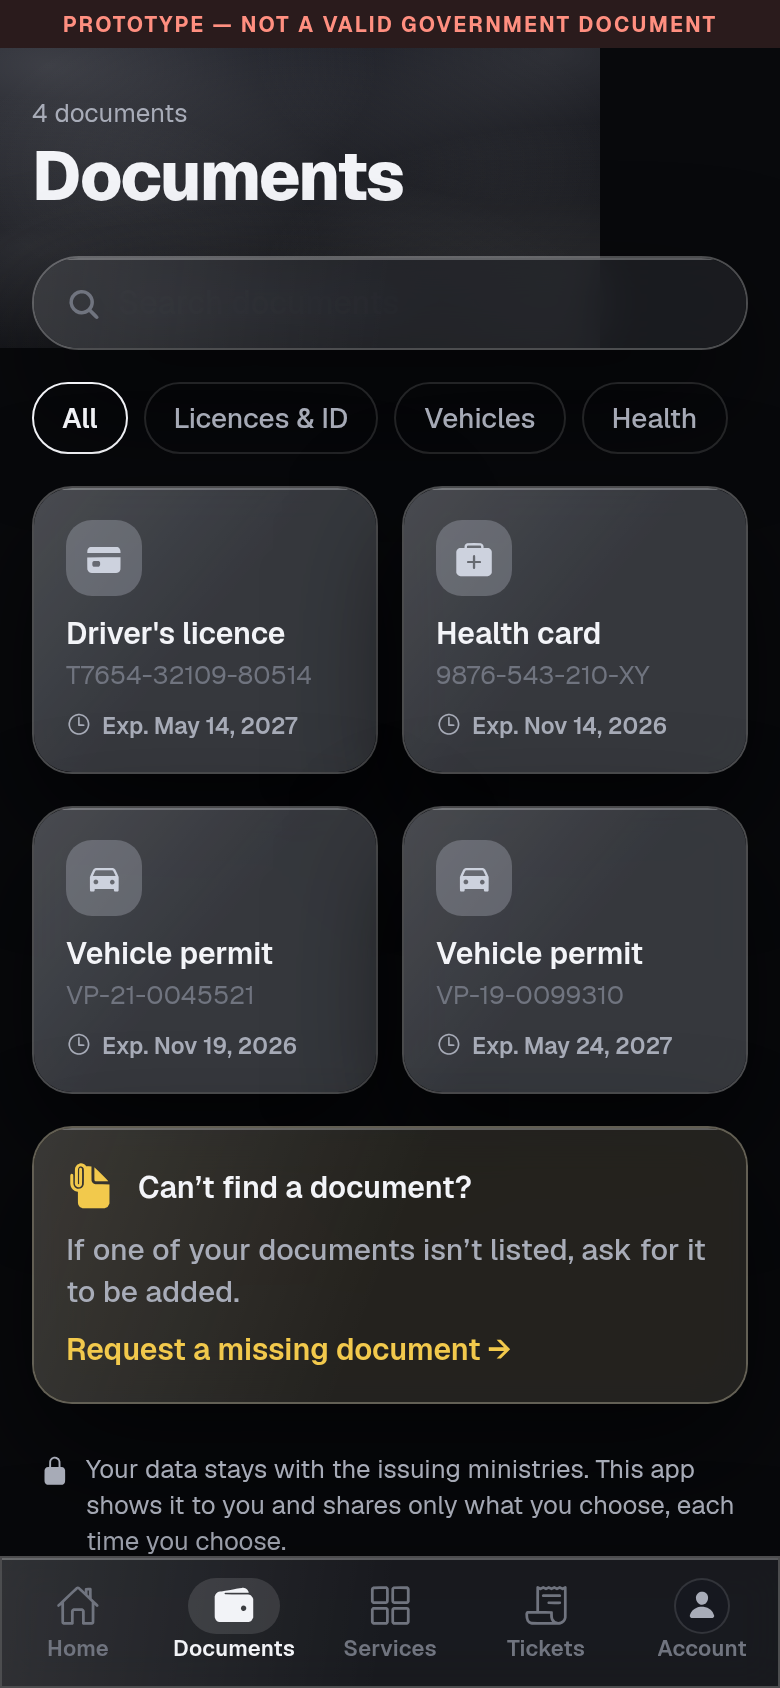
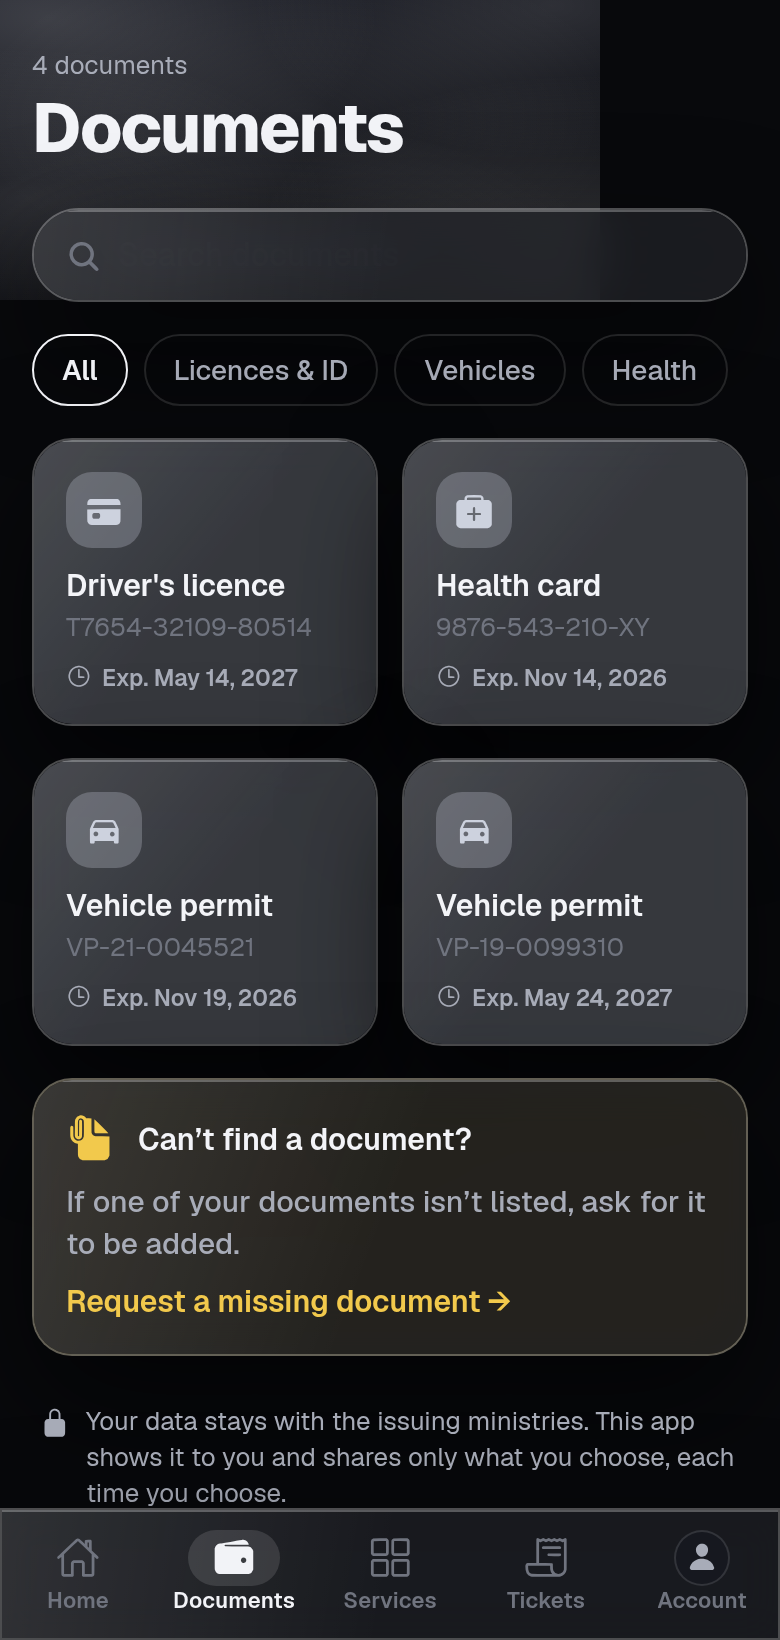
Web: clean phone display — remove prototype markings from the hero screenshot
- Crop the red "PROTOTYPE — NOT A VALID GOVERNMENT DOCUMENT" banner off the
  app screenshots.
- Switch the hero phone to the Documents (wallet) view, which carries no
  "SPECIMEN · PROTOTYPE" card watermark — rather than stripping that watermark
  from the licence card, which the app adds by design as an anti-forgery marker.
- Nudge the floating glass badges outward to frame the device.
Applied to index.html and fr.html.

Claude-Session: https://claude.ai/code/session_0164eo8pYi6QsMvVWEqqYPeZ

diff --git a/apps/web/fr.html b/apps/web/fr.html
@@ -87,8 +87,8 @@
   .fbadge{position:absolute;display:flex;align-items:center;gap:12px;padding:13px 16px;border-radius:18px;z-index:30;
     background:linear-gradient(135deg,rgba(255,255,255,.10),rgba(255,255,255,.02));backdrop-filter:blur(24px);-webkit-backdrop-filter:blur(24px);
     box-shadow:0 0 0 1px rgba(255,255,255,.1),0 25px 50px -12px rgba(0,0,0,.8),inset 0 1px 1px rgba(255,255,255,.2)}
-  .fbadge-tl{top:36px;left:-34px}
-  .fbadge-br{bottom:84px;right:-34px}
+  .fbadge-tl{top:40px;left:-52px}
+  .fbadge-br{bottom:92px;right:-52px}
   .fb-ic{width:40px;height:40px;border-radius:999px;display:flex;align-items:center;justify-content:center;font-weight:700;font-size:17px;border:1px solid;flex:none}
   .fb-ic-green{background:rgba(45,212,191,.15);color:#6FE3C0;border-color:rgba(90,209,162,.3)}
   .fb-ic-blue{background:rgba(91,141,239,.15);color:#9FBCFF;border-color:rgba(91,141,239,.35)}
@@ -202,7 +202,7 @@
         <div class="iphone" id="heroPhone">
           <span class="hw hw-mute"></span><span class="hw hw-v1"></span><span class="hw hw-v2"></span><span class="hw hw-power"></span>
           <div class="screen">
-            <img src="assets/app-home.png" alt="Écran d'accueil de CivicPass avec la carte du permis de conduire et les actions rapides" />
+            <img src="assets/app-documents.png" alt="Écran Documents de CivicPass — permis de conduire, carte Santé et certificats d'immatriculation" />
             <div class="glare" aria-hidden="true"></div>
           </div>
           <div class="island" aria-hidden="true"></div>

diff --git a/apps/web/index.html b/apps/web/index.html
@@ -90,8 +90,8 @@
   .fbadge{position:absolute;display:flex;align-items:center;gap:12px;padding:13px 16px;border-radius:18px;z-index:30;
     background:linear-gradient(135deg,rgba(255,255,255,.10),rgba(255,255,255,.02));backdrop-filter:blur(24px);-webkit-backdrop-filter:blur(24px);
     box-shadow:0 0 0 1px rgba(255,255,255,.1),0 25px 50px -12px rgba(0,0,0,.8),inset 0 1px 1px rgba(255,255,255,.2)}
-  .fbadge-tl{top:36px;left:-34px}
-  .fbadge-br{bottom:84px;right:-34px}
+  .fbadge-tl{top:40px;left:-52px}
+  .fbadge-br{bottom:92px;right:-52px}
   .fb-ic{width:40px;height:40px;border-radius:999px;display:flex;align-items:center;justify-content:center;font-weight:700;font-size:17px;border:1px solid;flex:none}
   .fb-ic-green{background:rgba(45,212,191,.15);color:#6FE3C0;border-color:rgba(90,209,162,.3)}
   .fb-ic-blue{background:rgba(91,141,239,.15);color:#9FBCFF;border-color:rgba(91,141,239,.35)}
@@ -212,7 +212,7 @@
         <div class="iphone" id="heroPhone">
           <span class="hw hw-mute"></span><span class="hw hw-v1"></span><span class="hw hw-v2"></span><span class="hw hw-power"></span>
           <div class="screen">
-            <img src="assets/app-home.png" alt="CivicPass home screen with the driver's licence card and quick actions" />
+            <img src="assets/app-documents.png" alt="CivicPass documents screen — driver's licence, health card and vehicle permits" />
             <div class="glare" aria-hidden="true"></div>
           </div>
           <div class="island" aria-hidden="true"></div>
